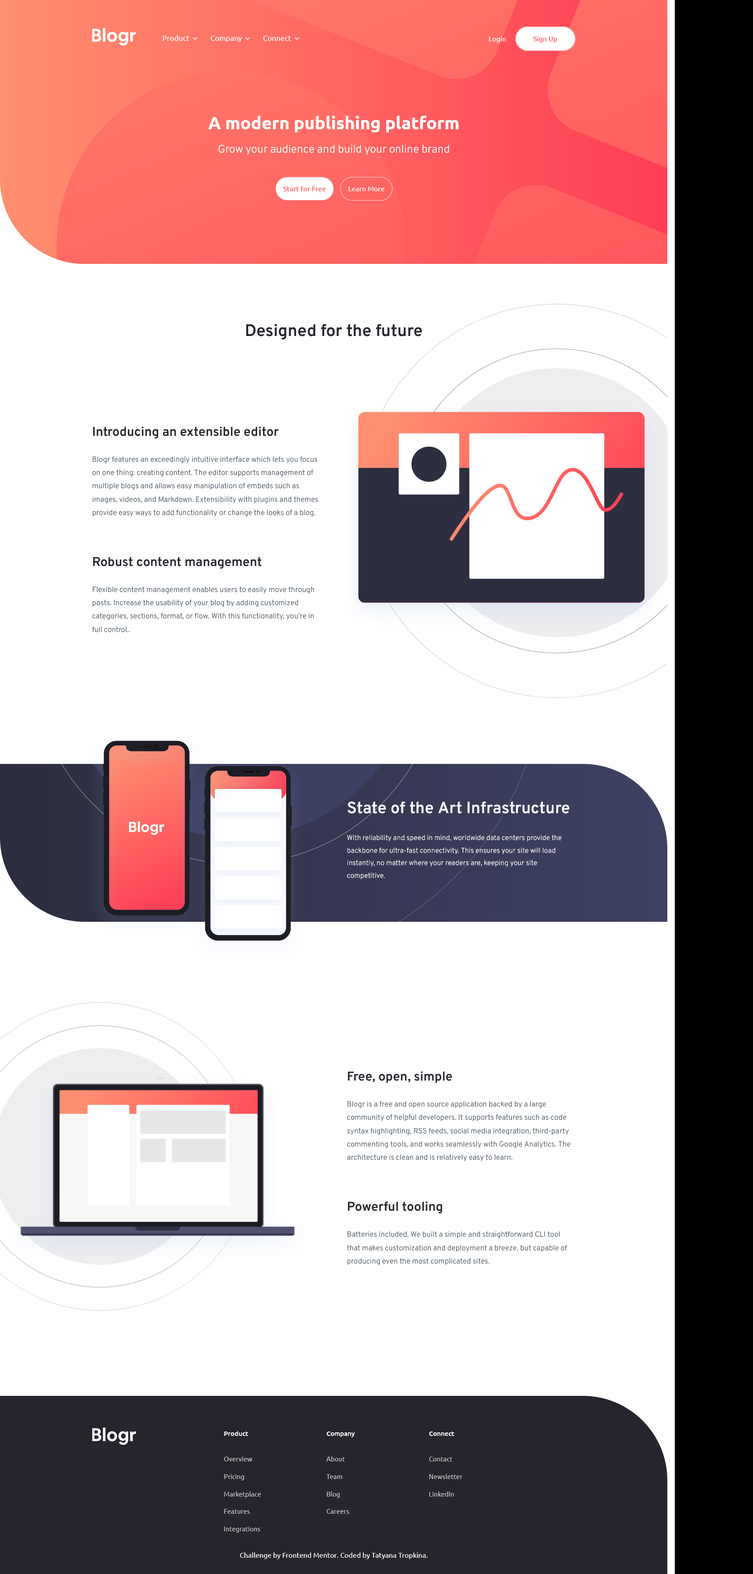
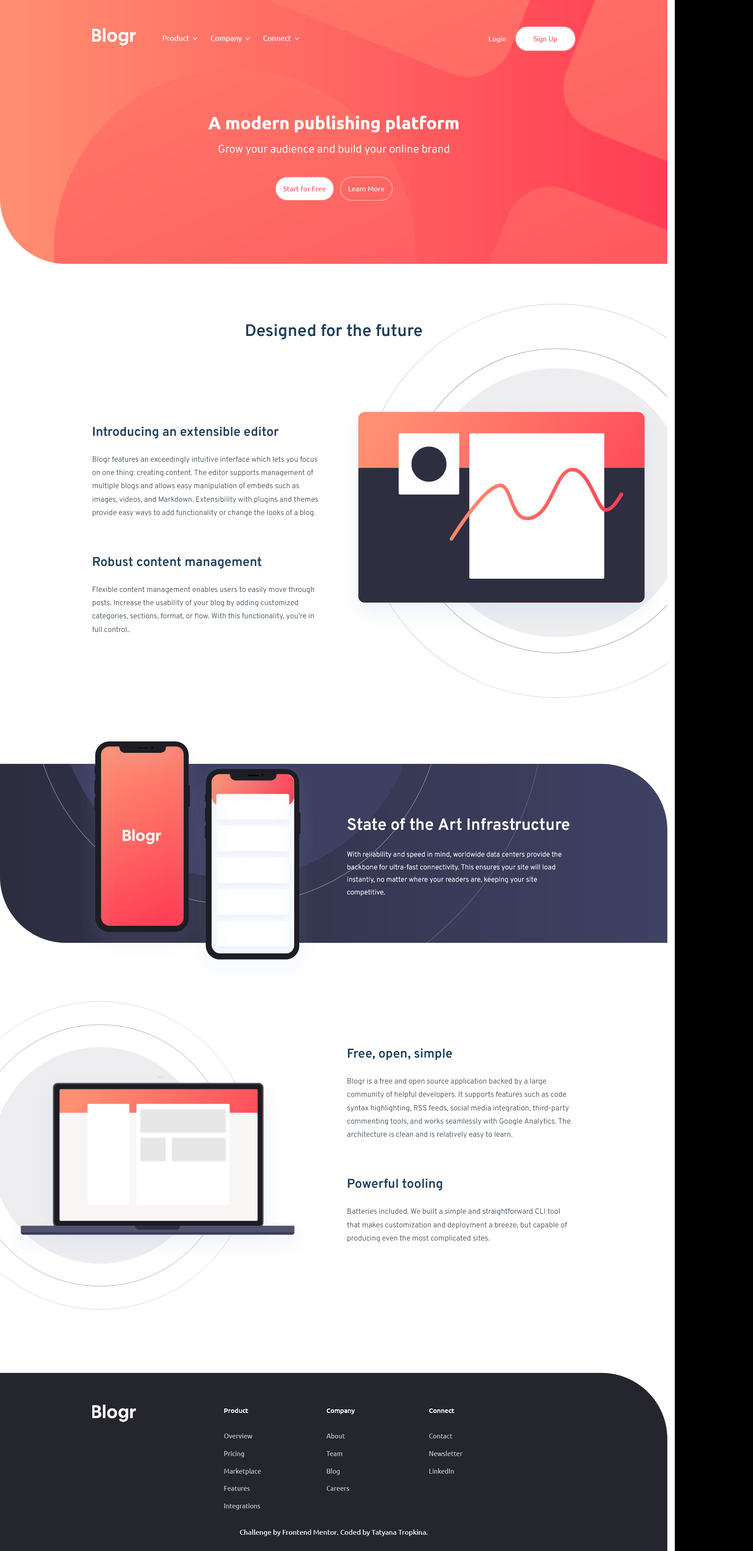
update header

diff --git a/css/style.min.css b/css/style.min.css
@@ -1,1 +1,1 @@
-.header__suptitle,.section__item-text,.structure__text{font-family:Overpass,sans-serif;font-weight:300}.section__item-title,.title{font-family:Overpass,sans-serif;font-weight:600}.footer-menu__list-link,.header-menu__list-item,body{font-family:Ubuntu,sans-serif;font-weight:400}.footer-menu__list-title{font-family:Ubuntu,sans-serif;font-weight:500}.header__title{font-family:Ubuntu,sans-serif;font-weight:700}::after,::before{position:absolute;content:""}.header__wrapper,.header__wrapper::before{top:0;right:0;bottom:0;left:0}/*! normalize.css v8.0.1 | MIT License | github.com/necolas/normalize.css */html{line-height:1.15;-webkit-text-size-adjust:100%}body{margin:0}main{display:block}h1{font-size:2em;margin:.67em 0}hr{-webkit-box-sizing:content-box;box-sizing:content-box;height:0;overflow:visible}pre{font-family:monospace,monospace;font-size:1em}a{background-color:transparent}abbr[title]{border-bottom:none;text-decoration:underline;-webkit-text-decoration:underline dotted;text-decoration:underline dotted}b,strong{font-weight:bolder}code,kbd,samp{font-family:monospace,monospace;font-size:1em}small{font-size:80%}sub,sup{font-size:75%;line-height:0;position:relative;vertical-align:baseline}sub{bottom:-.25em}sup{top:-.5em}img{border-style:none}button,input,optgroup,select,textarea{font-family:inherit;font-size:100%;line-height:1.15;margin:0}button,input{overflow:visible}button,select{text-transform:none}[type=button],[type=reset],[type=submit],button{-webkit-appearance:button}[type=button]::-moz-focus-inner,[type=reset]::-moz-focus-inner,[type=submit]::-moz-focus-inner,button::-moz-focus-inner{border-style:none;padding:0}[type=button]:-moz-focusring,[type=reset]:-moz-focusring,[type=submit]:-moz-focusring,button:-moz-focusring{outline:1px dotted ButtonText}fieldset{padding:.35em .75em .625em}legend{-webkit-box-sizing:border-box;box-sizing:border-box;color:inherit;display:table;max-width:100%;padding:0;white-space:normal}progress{vertical-align:baseline}textarea{overflow:auto}[type=checkbox],[type=radio]{-webkit-box-sizing:border-box;box-sizing:border-box;padding:0}[type=number]::-webkit-inner-spin-button,[type=number]::-webkit-outer-spin-button{height:auto}[type=search]{-webkit-appearance:textfield;outline-offset:-2px}[type=search]::-webkit-search-decoration{-webkit-appearance:none}::-webkit-file-upload-button{-webkit-appearance:button;font:inherit}details{display:block}summary{display:list-item}template{display:none}[hidden]{display:none}html{-webkit-box-sizing:border-box;box-sizing:border-box;scroll-behavior:smooth;overflow-x:hidden}*{-webkit-box-sizing:border-box;box-sizing:border-box}body{overflow-X:hidden;color:#4b5862;font-size:16px;line-height:174%;min-width:320px}li,ul{list-style:none;padding:0;margin:0}a{text-decoration:none;display:inline-block;-webkit-transition:all .2s;-o-transition:all .2s;transition:all .2s}p{padding:0;margin:0}figure{margin:0}h1,h2,h3,h4,h5,h6{padding:0;margin:0}button{background-color:transparent;border:none;cursor:pointer;padding:0;margin:0;outline:0}button:active,button:focus{outline:0}.container{max-width:1140px;padding:0 20px;margin:0 auto}.container-fluid{max-width:1400px;position:relative;margin:0 auto}.btn{display:inline-block;cursor:pointer;-webkit-transition:all .2s;-o-transition:all .2s;transition:all .2s;border-radius:50px;line-height:24px;border:1px solid transparent;transition:all .2s}.btn--fill{background-color:#fff;color:#ff525d;border-color:#ff525d}.btn--fill:active,.btn--fill:focus,.btn--fill:hover{background-color:#ff7a85;color:#fff;border-color:#ff7a85}.btn--transparent{background-color:transparent;color:#fff;border-color:#fff}.btn--transparent:active,.btn--transparent:focus,.btn--transparent:hover{background-color:#fff;color:#ff7a85;border-color:#ff525d}.logo__img{width:100px;height:40px;-o-object-fit:cover;object-fit:cover}.menu__list-title{color:#fff}.menu__list-item+.menu__list-item{margin-top:10px}.menu__list-link{color:#fff}.menu__dropdown{position:relative;padding:0 0 30px 0;margin:0 0 -30px 0}.menu__dropdown-title{position:relative;padding:0 18px 2px 0;color:#fff;cursor:pointer}.menu__dropdown-title::after{background:url(../images/icon-arrow-light.svg) center/cover no-repeat;right:0;top:50%;-webkit-transform:translateY(-50%);-ms-transform:translateY(-50%);transform:translateY(-50%);width:10px;height:8px;-webkit-transition:all .4s;-o-transition:all .4s;transition:all .4s}.menu__dropdown-title::before{background-color:#fff;height:1px;width:0;bottom:0;left:0;right:0;-webkit-transition:all .2s;-o-transition:all .2s;transition:all .2s}.menu__dropdown.closed .menu__dropdown-list{display:none}.menu__dropdown-title.open::after{-webkit-transform:translateY(-50%) rotateX(180deg);transform:translateY(-50%) rotateX(180deg)}.menu__dropdown-title.open::before{width:100%}.menu__dropdown-list{position:absolute;top:50px;left:0;padding:30px 25px;border-radius:8px;background-color:#fff;-webkit-box-shadow:-1px 13px 43px 2px rgba(0,0,0,.14);box-shadow:-1px 13px 43px 2px rgba(0,0,0,.14)}.menu__dropdown-link{color:#25252d}.menu__dropdown-link:hover{font-weight:500}._light{color:#fff}._dark{color:#25252d}.title{font-size:38px;line-height:130%}.section__items{width:50%;max-width:520px;padding:190px 0 180px}.section__item{margin-bottom:84px}.section__item:last-child{margin-bottom:0}.section__item-title{color:#25252d;font-size:29px;margin-bottom:33px}.section__item-text{font-size:17px;line-height:178%;color:#4b5862}:root{--border-radius:192px}.header{height:100vh;max-height:600px;border-bottom-left-radius:var(--border-radius);position:relative;margin-bottom:50px}.header__wrapper{position:absolute;overflow:hidden;border-bottom-left-radius:var(--border-radius);z-index:-4}.header__wrapper::after{top:-1300px;left:0;bottom:-1300px;right:-737px;background:url(../images/bg-pattern-intro.svg) center/cover no-repeat;z-index:-1;-webkit-transition:all 2s;-o-transition:all 2s;transition:all 2s;-webkit-transform:scale(2.2);-ms-transform:scale(2.2);transform:scale(2.2);opacity:0}.header__wrapper::before{background:-webkit-gradient(linear,left top,right top,from(#ff8f70),to(#ff3d54));background:-o-linear-gradient(left,#ff8f70 0,#ff3d54 100%);background:linear-gradient(90deg,#ff8f70 0,#ff3d54 100%);width:100%;z-index:-5}.header__top{display:-webkit-box;display:-ms-flexbox;display:flex;-webkit-box-align:center;-ms-flex-align:center;align-items:center;-webkit-box-pack:justify;-ms-flex-pack:justify;justify-content:space-between;padding-top:60px}.header__actions{display:-webkit-box;display:-ms-flexbox;display:flex}.header__actions-btn{padding:15px 40px}.header__actions-btn--login{color:#fff;padding:0}.header__actions-btn--login:active,.header__actions-btn--login:focus,.header__actions-btn--login:hover{color:#25252d}.header__actions-btn--signup{margin-left:20px}.header__content{max-width:800px;text-align:center;padding:135px 0 150px;margin:0 auto}.header__title{font-size:40px;padding-bottom:20px;line-height:140%}.header__suptitle{font-size:25px;margin-bottom:48px}.header__links{display:-webkit-box;display:-ms-flexbox;display:flex;-webkit-box-pack:center;-ms-flex-pack:center;justify-content:center}.header__link{padding:14px 17px}.header__link+.header__link{margin-left:15px}.header.anim .header__wrapper::after{opacity:1;-webkit-transform:scale(1);-ms-transform:scale(1);transform:scale(1)}.header.anim .header__title{-webkit-transform:translateY(-100px) translateX(0);-ms-transform:translateY(-100px) translateX(0);transform:translateY(-100px) translateX(0);opacity:0;-webkit-transition:1.5s;-o-transition:1.5s;transition:1.5s;-webkit-transition-delay:0;-o-transition-delay:0;transition-delay:0}.header.anim .header__title.anim{-webkit-transform:translateY(0) translateX(0);-ms-transform:translateY(0) translateX(0);transform:translateY(0) translateX(0);opacity:1}.header.anim .header__suptitle{-webkit-transform:translateY(-50px) translateX(0);-ms-transform:translateY(-50px) translateX(0);transform:translateY(-50px) translateX(0);opacity:0;-webkit-transition:1.5s;-o-transition:1.5s;transition:1.5s;-webkit-transition-delay:1s;-o-transition-delay:1s;transition-delay:1s}.header.anim .header__suptitle.anim{-webkit-transform:translateY(0) translateX(0);-ms-transform:translateY(0) translateX(0);transform:translateY(0) translateX(0);opacity:1}.header.anim .header__links{-webkit-transform:translateY(40px) translateX(0);-ms-transform:translateY(40px) translateX(0);transform:translateY(40px) translateX(0);opacity:0;-webkit-transition:2s;-o-transition:2s;transition:2s;-webkit-transition-delay:1.2s;-o-transition-delay:1.2s;transition-delay:1.2s}.header.anim .header__links.anim{-webkit-transform:translateY(0) translateX(0);-ms-transform:translateY(0) translateX(0);transform:translateY(0) translateX(0);opacity:1}.header-menu{margin:0 auto 0 60px}.header-menu__list{display:-webkit-box;display:-ms-flexbox;display:flex}.header-menu__list-item{font-size:17px}.header-menu__list-item+.header-menu__list-item{margin-left:30px}.design{padding-top:80px;margin-bottom:60px;position:relative}.design::after{width:calc(49% + 195px);right:-195px;top:0;bottom:0;max-width:952px;background:url(../images/illustration-editor-desktop.svg) center/contain no-repeat}.design__title{text-align:center}.design__img{display:none}.structure{margin:110px 0 60px;position:relative}.structure__intro-wrapper{background:-webkit-gradient(linear,left top,right top,from(#2c2d3f),to(#3f4164));background:-o-linear-gradient(left,#2c2d3f 0,#3f4164 100%);background:linear-gradient(90deg,#2c2d3f 0,#3f4164 100%);border-bottom-left-radius:var(--border-radius);border-top-right-radius:var(--border-radius)}.structure__intro-bg{border-bottom-left-radius:var(--border-radius);border-top-right-radius:var(--border-radius);background:url(../images/bg-pattern-circles.svg) -220px 90%/cover no-repeat}.structure__intro{position:relative;margin-bottom:50px}.structure__intro::after{background:url(../images/illustration-phones.svg) center/contain no-repeat;top:-71px;bottom:-98px;left:-35px;width:50%;max-width:552px}.structure__intro-content{padding:80px 0 90px;margin-left:auto}.structure__items{margin-left:auto}.structure__title{font-size:37px;line-height:120%;margin-bottom:30px}.structure__text{line-height:178%}.structure__content-bg{position:relative;padding:100px 0 50px}.structure__content-bg::after{background:url(../images/illustration-laptop-desktop.svg) center/contain no-repeat;width:calc(49% + 182px);left:-182px;top:0;bottom:0}.structure__content-img{display:none}.footer{background-color:#25252d;border-top-right-radius:var(--border-radius);padding:72px 0 30px}.footer__inner{display:grid;grid-template-columns:100px 1fr;grid-gap:50px;-webkit-box-pack:justify;-ms-flex-pack:justify;justify-content:space-between;margin-bottom:30px}.footer-menu{display:grid;grid-template-columns:repeat(3,1fr);grid-gap:50px;width:100%;max-width:650px;margin:0 auto}.footer-menu__list-title{margin-bottom:30px;font-size:15px}.footer-menu__list-link{padding-bottom:1px;position:relative;font-size:15px;color:#c8c8cb}.footer-menu__list-link::before{background-color:#c8c8cb;height:1px;width:0;bottom:0;left:0;-webkit-transition:all .2s;-o-transition:all .2s;transition:all .2s}.footer-menu__list-link:active::before,.footer-menu__list-link:focus::before,.footer-menu__list-link:hover::before{right:0;width:100%}.attribution{color:#fff;text-align:center}.attribution a{color:#fff}.attribution a:active,.attribution a:focus,.attribution a:hover{opacity:.7}@media (max-width:768px){.header-menu{display:block;margin:0}.header-menu__list{-webkit-box-orient:vertical;-webkit-box-direction:normal;-ms-flex-direction:column;flex-direction:column;-webkit-box-align:center;-ms-flex-align:center;align-items:center;position:absolute;z-index:10;right:20px;top:100px;background-color:#fff;-webkit-transform:translateX(700%);-ms-transform:translateX(700%);transform:translateX(700%);-webkit-transition:all .5s linear;-o-transition:all .5s linear;transition:all .5s linear;-webkit-box-shadow:-1px 13px 43px 2px rgba(0,0,0,.3);box-shadow:-1px 13px 43px 2px rgba(0,0,0,.3);padding:30px;max-width:280px;max-height:calc(var(--height-menu) - 150px);width:100%;border-radius:5px;overflow-y:scroll}.header-menu__list.open{-webkit-transform:translateX(0);-ms-transform:translateX(0);transform:translateX(0)}.header-menu__list-item+.header-menu__list-item{margin:30px 0 0 0}.header-menu__btn{width:32px;height:26px;position:relative;cursor:pointer;-webkit-transition:all .2s;-o-transition:all .2s;transition:all .2s;overflow:hidden}.header-menu__btn::after,.header-menu__btn::before{bottom:0;right:0;left:0;-webkit-transition:all .2s cubic-bezier(.075,.82,.165,1);-o-transition:all .2s cubic-bezier(.075,.82,.165,1);transition:all .2s cubic-bezier(.075,.82,.165,1);background-repeat:no-repeat}.header-menu__btn::after{top:4px;background-image:url(../images/icon-hamburger.svg)}.header-menu__btn::before{top:0;background-image:url(../images/icon-close.svg);opacity:0}.header-menu__btn.open{width:26px}.header-menu__btn.open::after{opacity:0}.header-menu__btn.open::before{opacity:1}.header__top{padding-top:30px}.header__actions{-webkit-box-orient:vertical;-webkit-box-direction:normal;-ms-flex-direction:column;flex-direction:column;width:100%;-webkit-box-align:center;-ms-flex-align:center;align-items:center;padding-top:20px;margin-top:30px;position:relative}.header__actions::after{height:1px;background-color:#c8c8cb;width:100%;top:0;left:0;right:0}.header__actions-btn{padding:13px 40px}.header__actions-btn--login{color:#25252d;margin-bottom:20px;padding:0}.header__actions-btn--login:active,.header__actions-btn--login:focus,.header__actions-btn--login:hover{color:#ff525d}.header__actions-btn--signup{background:-webkit-gradient(linear,left top,right top,from(#ff8f70),to(#ff3d54));background:-o-linear-gradient(left,#ff8f70 0,#ff3d54 100%);background:linear-gradient(90deg,#ff8f70 0,#ff3d54 100%);margin-left:0;color:#fff;border:none}.header__actions-btn--signup:active,.header__actions-btn--signup:focus,.header__actions-btn--signup:hover{background:-webkit-gradient(linear,left top,right top,from(#ff8f70),color-stop(0,#ff3d54));background:-o-linear-gradient(left,#ff8f70 0,#ff3d54 0);background:linear-gradient(90deg,#ff8f70 0,#ff3d54 0)}.menu__dropdown{display:-webkit-box;display:-ms-flexbox;display:flex;-webkit-box-orient:vertical;-webkit-box-direction:normal;-ms-flex-direction:column;flex-direction:column;-webkit-box-align:center;-ms-flex-align:center;align-items:center;width:100%;padding:0;margin:0}.menu__dropdown-list{position:static;-webkit-box-shadow:none;box-shadow:none;border-radius:0;width:100%;text-align:center;background-color:#efeff1;border-radius:5px;padding:20px 20px;margin-top:20px}.menu__dropdown-item{margin-bottom:15px}.menu__dropdown-item:last-child{margin-bottom:0}.menu__dropdown-link{color:#4b5862}.menu__dropdown-link:hover{font-weight:500}.menu__dropdown-title{padding:0 18px 0 0;color:#25252d}.menu__dropdown-title::after{background-image:url(../images/icon-arrow-dark.svg)}.menu__dropdown-title::before{display:none}.menu__dropdown-title.open{color:#4b5862}.design::after{display:none}.design__img{display:block;max-width:406px;width:100%;-o-object-fit:cover;object-fit:cover;margin:0 auto 30px}.design__title{margin-bottom:40px}.section{padding-top:40px}.section__item{margin-bottom:40px}.section__item-title{color:#3f4164;font-size:29px;margin-bottom:20px}.section__items{max-width:none;width:100%;text-align:center;padding:50px 0 60px}.structure{margin:300px 0 120px}.structure__intro-bg{background:url(../images/bg-pattern-circles.svg) 0 90%/cover no-repeat}.structure__intro::after{background:url(../images/illustration-phones.svg) center/contain no-repeat;top:-450px;bottom:0;left:50%;width:100%;max-width:452px;-webkit-transform:translateX(-50%);-ms-transform:translateX(-50%);transform:translateX(-50%)}.structure__intro-content{padding:250px 0 90px}.structure__content-img{display:block;max-width:498px;width:100%;-o-object-fit:cover;object-fit:cover;margin:0 auto 30px}.structure__content-bg{padding:100px 0 0}.structure__content-bg::after{display:none}.footer__inner{display:block}.footer-menu{grid-gap:35px;margin-top:30px;max-width:none}:root{--border-radius:120px}}@media (max-width:500px){.header{margin-bottom:30px}.header__title{font-size:35px;font-weight:500}.header__suptitle{font-size:20px;margin-bottom:40px}.header__content{padding:88px 0 91px}.header-menu__list{top:90px}.structure{margin:200px 0 120px}.footer{text-align:center}.footer-menu{grid-template-columns:1fr}}@supports (-webkit-appearance:none){.menu__dropdown-title::after{background:url(../images/icon-arrow-light.svg) center/cover no-repeat}.header__wrapper::after{background:url(../images/bg-pattern-intro.svg) center/cover no-repeat}.design::after{background:url(../images/illustration-editor-desktop.svg) center/contain no-repeat}.structure__intro-bg{background:url(../images/bg-pattern-circles.svg) -220px 90%/cover no-repeat}.structure__intro::after{background:url(../images/illustration-phones.svg) center/contain no-repeat}.structure__content-bg::after{background:url(../images/illustration-laptop-desktop.svg) center/contain no-repeat}}@media (max-width:768px){@supports (-webkit-appearance:none){.header-menu__btn::after{background-image:url(../images/icon-hamburger.svg)}.header-menu__btn::before{background-image:url(../images/icon-close.svg)}.menu__dropdown-title::after{background-image:url(../images/icon-arrow-dark.svg)}.structure__intro-bg{background:url(../images/bg-pattern-circles.svg) 0 90%/cover no-repeat}.structure__intro::after{background:url(../images/illustration-phones.svg) center/contain no-repeat}}}
+.header__suptitle,.section__item-text,.structure__text{font-family:Overpass,sans-serif;font-weight:300}.section__item-title,.title{font-family:Overpass,sans-serif;font-weight:600}.footer-menu__list-link,.header-menu__list-item,body{font-family:Ubuntu,sans-serif;font-weight:400}.footer-menu__list-title{font-family:Ubuntu,sans-serif;font-weight:500}.header__title{font-family:Ubuntu,sans-serif;font-weight:700}::after,::before{position:absolute;content:""}.header__wrapper,.header__wrapper::before{top:0;right:0;bottom:0;left:0}/*! normalize.css v8.0.1 | MIT License | github.com/necolas/normalize.css */html{line-height:1.15;-webkit-text-size-adjust:100%}body{margin:0}main{display:block}h1{font-size:2em;margin:.67em 0}hr{-webkit-box-sizing:content-box;box-sizing:content-box;height:0;overflow:visible}pre{font-family:monospace,monospace;font-size:1em}a{background-color:transparent}abbr[title]{border-bottom:none;text-decoration:underline;-webkit-text-decoration:underline dotted;text-decoration:underline dotted}b,strong{font-weight:bolder}code,kbd,samp{font-family:monospace,monospace;font-size:1em}small{font-size:80%}sub,sup{font-size:75%;line-height:0;position:relative;vertical-align:baseline}sub{bottom:-.25em}sup{top:-.5em}img{border-style:none}button,input,optgroup,select,textarea{font-family:inherit;font-size:100%;line-height:1.15;margin:0}button,input{overflow:visible}button,select{text-transform:none}[type=button],[type=reset],[type=submit],button{-webkit-appearance:button}[type=button]::-moz-focus-inner,[type=reset]::-moz-focus-inner,[type=submit]::-moz-focus-inner,button::-moz-focus-inner{border-style:none;padding:0}[type=button]:-moz-focusring,[type=reset]:-moz-focusring,[type=submit]:-moz-focusring,button:-moz-focusring{outline:1px dotted ButtonText}fieldset{padding:.35em .75em .625em}legend{-webkit-box-sizing:border-box;box-sizing:border-box;color:inherit;display:table;max-width:100%;padding:0;white-space:normal}progress{vertical-align:baseline}textarea{overflow:auto}[type=checkbox],[type=radio]{-webkit-box-sizing:border-box;box-sizing:border-box;padding:0}[type=number]::-webkit-inner-spin-button,[type=number]::-webkit-outer-spin-button{height:auto}[type=search]{-webkit-appearance:textfield;outline-offset:-2px}[type=search]::-webkit-search-decoration{-webkit-appearance:none}::-webkit-file-upload-button{-webkit-appearance:button;font:inherit}details{display:block}summary{display:list-item}template{display:none}[hidden]{display:none}html{-webkit-box-sizing:border-box;box-sizing:border-box;scroll-behavior:smooth;overflow-x:hidden}*{-webkit-box-sizing:border-box;box-sizing:border-box}body{overflow-X:hidden;color:#4b5862;font-size:16px;line-height:174%;min-width:320px}li,ul{list-style:none;padding:0;margin:0}a{text-decoration:none;display:inline-block;-webkit-transition:all .2s;-o-transition:all .2s;transition:all .2s}p{padding:0;margin:0}figure{margin:0}h1,h2,h3,h4,h5,h6{padding:0;margin:0}button{background-color:transparent;border:none;cursor:pointer;padding:0;margin:0;outline:0}button:active,button:focus{outline:0}.container{max-width:1140px;padding:0 20px;margin:0 auto}.container-fluid{max-width:1400px;position:relative;margin:0 auto}.btn{display:inline-block;cursor:pointer;-webkit-transition:all .2s;-o-transition:all .2s;transition:all .2s;border-radius:50px;line-height:24px;border:1px solid transparent;transition:all .2s}.btn--fill{background-color:#fff;color:#ff525d;border-color:#ff525d}.btn--fill:active,.btn--fill:focus,.btn--fill:hover{background-color:#ff7a85;color:#fff;border-color:#ff7a85}.btn--transparent{background-color:transparent;color:#fff;border-color:#fff}.btn--transparent:active,.btn--transparent:focus,.btn--transparent:hover{background-color:#fff;color:#ff7a85;border-color:#ff525d}.logo__img{width:100px;height:40px;-o-object-fit:cover;object-fit:cover}.menu__list-title{color:#fff}.menu__list-item+.menu__list-item{margin-top:10px}.menu__list-link{color:#fff}.menu__dropdown{position:relative;padding:0 0 30px 0;margin:0 0 -30px 0}.menu__dropdown-title{position:relative;padding:0 18px 2px 0;color:#fff;cursor:pointer}.menu__dropdown-title::after{background:url(../images/icon-arrow-light.svg) center/cover no-repeat;right:0;top:50%;-webkit-transform:translateY(-50%);-ms-transform:translateY(-50%);transform:translateY(-50%);width:10px;height:8px;-webkit-transition:all .4s;-o-transition:all .4s;transition:all .4s}.menu__dropdown-title::before{background-color:#fff;height:1px;width:0;bottom:0;left:0;right:0;-webkit-transition:all .2s;-o-transition:all .2s;transition:all .2s}.menu__dropdown.closed .menu__dropdown-list{display:none}.menu__dropdown-title.open::after{-webkit-transform:translateY(-50%) rotateX(180deg);transform:translateY(-50%) rotateX(180deg)}.menu__dropdown-title.open::before{width:100%}.menu__dropdown-list{position:absolute;top:50px;left:0;padding:30px 25px;border-radius:8px;background-color:#fff;-webkit-box-shadow:-1px 13px 43px 2px rgba(0,0,0,.14);box-shadow:-1px 13px 43px 2px rgba(0,0,0,.14)}.menu__dropdown-link{color:#25252d}.menu__dropdown-link:hover{font-weight:500}._light{color:#fff}._dark{color:#25252d}.title{font-size:38px;line-height:130%}.section__items{width:50%;max-width:520px;padding:190px 0 180px}.section__item{margin-bottom:84px}.section__item:last-child{margin-bottom:0}.section__item-title{color:#1f3f5b;font-size:29px;margin-bottom:33px}.section__item-text{font-size:17px;line-height:178%;color:#4b5862}:root{--border-radius:150px}.header{height:100vh;max-height:600px;border-bottom-left-radius:var(--border-radius);position:relative;margin-bottom:50px}.header__wrapper{position:absolute;overflow:hidden;border-bottom-left-radius:var(--border-radius);z-index:-4}.header__wrapper::after{top:-400px;bottom:-400px;left:-500px;right:-1300px;background:url(../images/bg-pattern-intro.svg) center/cover no-repeat;z-index:-1;-webkit-transition:all 2s;-o-transition:all 2s;transition:all 2s;-webkit-transform:scale(2.2);-ms-transform:scale(2.2);transform:scale(2.2);opacity:0}.header__wrapper::before{background:-webkit-gradient(linear,left top,right top,from(#ff8f70),to(#ff3d54));background:-o-linear-gradient(left,#ff8f70 0,#ff3d54 100%);background:linear-gradient(90deg,#ff8f70 0,#ff3d54 100%);width:100%;z-index:-5}.header__top{display:-webkit-box;display:-ms-flexbox;display:flex;-webkit-box-align:center;-ms-flex-align:center;align-items:center;-webkit-box-pack:justify;-ms-flex-pack:justify;justify-content:space-between;padding-top:60px}.header__actions{display:-webkit-box;display:-ms-flexbox;display:flex}.header__actions-btn{padding:15px 40px}.header__actions-btn--login{color:#fff;padding:0}.header__actions-btn--login:active,.header__actions-btn--login:focus,.header__actions-btn--login:hover{color:#25252d}.header__actions-btn--signup{margin-left:20px}.header__content{max-width:800px;text-align:center;padding:135px 0 150px;margin:0 auto}.header__title{font-size:40px;padding-bottom:20px;line-height:140%}.header__suptitle{font-size:25px;margin-bottom:48px}.header__links{display:-webkit-box;display:-ms-flexbox;display:flex;-webkit-box-pack:center;-ms-flex-pack:center;justify-content:center}.header__link{padding:14px 17px}.header__link+.header__link{margin-left:15px}.header.anim .header__wrapper::after{opacity:1;-webkit-transform:scale(1);-ms-transform:scale(1);transform:scale(1)}.header.anim .header__title{-webkit-transform:translateY(-100px) translateX(0);-ms-transform:translateY(-100px) translateX(0);transform:translateY(-100px) translateX(0);opacity:0;-webkit-transition:1.5s;-o-transition:1.5s;transition:1.5s;-webkit-transition-delay:0;-o-transition-delay:0;transition-delay:0}.header.anim .header__title.anim{-webkit-transform:translateY(0) translateX(0);-ms-transform:translateY(0) translateX(0);transform:translateY(0) translateX(0);opacity:1}.header.anim .header__suptitle{-webkit-transform:translateY(-50px) translateX(0);-ms-transform:translateY(-50px) translateX(0);transform:translateY(-50px) translateX(0);opacity:0;-webkit-transition:1.5s;-o-transition:1.5s;transition:1.5s;-webkit-transition-delay:1s;-o-transition-delay:1s;transition-delay:1s}.header.anim .header__suptitle.anim{-webkit-transform:translateY(0) translateX(0);-ms-transform:translateY(0) translateX(0);transform:translateY(0) translateX(0);opacity:1}.header.anim .header__links{-webkit-transform:translateY(40px) translateX(0);-ms-transform:translateY(40px) translateX(0);transform:translateY(40px) translateX(0);opacity:0;-webkit-transition:2s;-o-transition:2s;transition:2s;-webkit-transition-delay:1.2s;-o-transition-delay:1.2s;transition-delay:1.2s}.header.anim .header__links.anim{-webkit-transform:translateY(0) translateX(0);-ms-transform:translateY(0) translateX(0);transform:translateY(0) translateX(0);opacity:1}.header-menu{margin:0 auto 0 60px}.header-menu__list{display:-webkit-box;display:-ms-flexbox;display:flex}.header-menu__list-item{font-size:17px}.header-menu__list-item+.header-menu__list-item{margin-left:30px}.design{padding-top:80px;margin-bottom:60px;position:relative}.design::after{width:calc(49% + 195px);right:-195px;top:0;bottom:0;max-width:952px;background:url(../images/illustration-editor-desktop.svg) center/contain no-repeat}.design__title{text-align:center;color:#1f3f5b}.design__img{display:none}.structure{margin:110px 0 60px;position:relative}.structure__intro-wrapper{background:-webkit-gradient(linear,left top,right top,from(#2c2d3f),to(#3f4164));background:-o-linear-gradient(left,#2c2d3f 0,#3f4164 100%);background:linear-gradient(90deg,#2c2d3f 0,#3f4164 100%);border-bottom-left-radius:var(--border-radius);border-top-right-radius:var(--border-radius)}.structure__intro-bg{border-bottom-left-radius:var(--border-radius);border-top-right-radius:var(--border-radius);background:url(../images/bg-pattern-circles.svg) -220px 85%/cover no-repeat}.structure__intro{position:relative;margin-bottom:50px}.structure__intro::after{background:url(../images/illustration-phones.svg) center/contain no-repeat;top:-71px;bottom:-98px;left:-35px;width:50%;max-width:552px}.structure__intro-content{padding:118px 0 100px;margin-left:auto}.structure__items{margin-left:auto}.structure__title{font-size:37px;line-height:120%;margin-bottom:30px}.structure__text{line-height:178%}.structure__content-bg{position:relative;padding:0 0 50px}.structure__content-bg::after{background:url(../images/illustration-laptop-desktop.svg) center/contain no-repeat;width:calc(49% + 182px);left:-182px;top:0;bottom:0}.structure__content-img{display:none}.footer{background-color:#25252d;border-top-right-radius:var(--border-radius);padding:72px 0 30px}.footer__inner{display:grid;grid-template-columns:100px 1fr;grid-gap:50px;-webkit-box-pack:justify;-ms-flex-pack:justify;justify-content:space-between;margin-bottom:30px}.footer-menu{display:grid;grid-template-columns:repeat(3,1fr);grid-gap:50px;width:100%;max-width:650px;margin:0 auto}.footer-menu__list-title{margin-bottom:30px;font-size:15px}.footer-menu__list-link{padding-bottom:1px;position:relative;font-size:15px;color:#c8c8cb}.footer-menu__list-link::before{background-color:#c8c8cb;height:1px;width:0;bottom:0;left:0;-webkit-transition:all .2s;-o-transition:all .2s;transition:all .2s}.footer-menu__list-link:active::before,.footer-menu__list-link:focus::before,.footer-menu__list-link:hover::before{right:0;width:100%}.attribution{color:#fff;text-align:center}.attribution a{color:#fff}.attribution a:active,.attribution a:focus,.attribution a:hover{opacity:.7}@media (max-width:768px){.header-menu{display:block;margin:0}.header-menu__list{-webkit-box-orient:vertical;-webkit-box-direction:normal;-ms-flex-direction:column;flex-direction:column;-webkit-box-align:center;-ms-flex-align:center;align-items:center;position:absolute;z-index:10;right:20px;top:100px;background-color:#fff;-webkit-transform:translateX(700%);-ms-transform:translateX(700%);transform:translateX(700%);-webkit-transition:all .5s linear;-o-transition:all .5s linear;transition:all .5s linear;-webkit-box-shadow:-1px 13px 43px 2px rgba(0,0,0,.3);box-shadow:-1px 13px 43px 2px rgba(0,0,0,.3);padding:30px;max-width:280px;max-height:calc(var(--height-menu) - 150px);width:100%;border-radius:5px;overflow-y:scroll}.header-menu__list.open{-webkit-transform:translateX(0);-ms-transform:translateX(0);transform:translateX(0)}.header-menu__list-item+.header-menu__list-item{margin:30px 0 0 0}.header-menu__btn{width:32px;height:26px;position:relative;cursor:pointer;-webkit-transition:all .2s;-o-transition:all .2s;transition:all .2s;overflow:hidden}.header-menu__btn::after,.header-menu__btn::before{bottom:0;right:0;left:0;-webkit-transition:all .2s cubic-bezier(.075,.82,.165,1);-o-transition:all .2s cubic-bezier(.075,.82,.165,1);transition:all .2s cubic-bezier(.075,.82,.165,1);background-repeat:no-repeat}.header-menu__btn::after{top:4px;background-image:url(../images/icon-hamburger.svg)}.header-menu__btn::before{top:0;background-image:url(../images/icon-close.svg);opacity:0}.header-menu__btn.open{width:26px}.header-menu__btn.open::after{opacity:0}.header-menu__btn.open::before{opacity:1}.header__top{padding-top:30px}.header__actions{-webkit-box-orient:vertical;-webkit-box-direction:normal;-ms-flex-direction:column;flex-direction:column;width:100%;-webkit-box-align:center;-ms-flex-align:center;align-items:center;padding-top:20px;margin-top:30px;position:relative}.header__actions::after{height:1px;background-color:#c8c8cb;width:100%;top:0;left:0;right:0}.header__actions-btn{padding:13px 40px}.header__actions-btn--login{color:#25252d;margin-bottom:20px;padding:0}.header__actions-btn--login:active,.header__actions-btn--login:focus,.header__actions-btn--login:hover{color:#ff525d}.header__actions-btn--signup{background:-webkit-gradient(linear,left top,right top,from(#ff8f70),to(#ff3d54));background:-o-linear-gradient(left,#ff8f70 0,#ff3d54 100%);background:linear-gradient(90deg,#ff8f70 0,#ff3d54 100%);margin-left:0;color:#fff;border:none}.header__actions-btn--signup:active,.header__actions-btn--signup:focus,.header__actions-btn--signup:hover{background:-webkit-gradient(linear,left top,right top,from(#ff8f70),color-stop(0,#ff3d54));background:-o-linear-gradient(left,#ff8f70 0,#ff3d54 0);background:linear-gradient(90deg,#ff8f70 0,#ff3d54 0)}.menu__dropdown{display:-webkit-box;display:-ms-flexbox;display:flex;-webkit-box-orient:vertical;-webkit-box-direction:normal;-ms-flex-direction:column;flex-direction:column;-webkit-box-align:center;-ms-flex-align:center;align-items:center;width:100%;padding:0;margin:0}.menu__dropdown-list{position:static;-webkit-box-shadow:none;box-shadow:none;border-radius:0;width:100%;text-align:center;background-color:#efeff1;border-radius:5px;padding:20px 20px;margin-top:20px}.menu__dropdown-item{margin-bottom:15px}.menu__dropdown-item:last-child{margin-bottom:0}.menu__dropdown-link{color:#4b5862}.menu__dropdown-link:hover{font-weight:500}.menu__dropdown-title{padding:0 18px 0 0;color:#25252d}.menu__dropdown-title::after{background-image:url(../images/icon-arrow-dark.svg)}.menu__dropdown-title::before{display:none}.menu__dropdown-title.open{color:#4b5862}.design::after{display:none}.design__img{display:block;max-width:406px;width:100%;-o-object-fit:cover;object-fit:cover;margin:0 auto 30px}.design__title{margin-bottom:40px}.section{padding-top:40px}.section__item{margin-bottom:40px}.section__item-title{color:#3f4164;font-size:29px;margin-bottom:20px}.section__items{max-width:none;width:100%;text-align:center;padding:50px 0 60px}.structure{margin:300px 0 120px}.structure__intro-bg{background:url(../images/bg-pattern-circles.svg) 0 90%/cover no-repeat}.structure__intro::after{background:url(../images/illustration-phones.svg) center/contain no-repeat;top:-450px;bottom:0;left:50%;width:100%;max-width:452px;-webkit-transform:translateX(-50%);-ms-transform:translateX(-50%);transform:translateX(-50%)}.structure__intro-content{padding:250px 0 90px}.structure__content-img{display:block;max-width:498px;width:100%;-o-object-fit:cover;object-fit:cover;margin:0 auto 30px}.structure__content-bg{padding:100px 0 0}.structure__content-bg::after{display:none}.footer__inner{display:block}.footer-menu{grid-gap:35px;margin-top:30px;max-width:none}:root{--border-radius:120px}}@media (max-width:500px){.header{margin-bottom:0}.header__title{font-size:35px;font-weight:500}.header__suptitle{font-size:20px;margin-bottom:40px}.header__content{padding:88px 0 91px}.header-menu__list{top:90px}.title{font-size:30px}.design{margin-bottom:0}.structure{margin:200px 0 0}.structure__intro{margin-bottom:0}.structure__content-bg{padding:50px 0 0}.footer{text-align:center}.footer-menu{grid-template-columns:1fr}}@supports (-webkit-appearance:none){.menu__dropdown-title::after{background:url(../images/icon-arrow-light.svg) center/cover no-repeat}.header__wrapper::after{background:url(../images/bg-pattern-intro.svg) center/cover no-repeat}.design::after{background:url(../images/illustration-editor-desktop.svg) center/contain no-repeat}.structure__intro-bg{background:url(../images/bg-pattern-circles.svg) -220px 85%/cover no-repeat}.structure__intro::after{background:url(../images/illustration-phones.svg) center/contain no-repeat}.structure__content-bg::after{background:url(../images/illustration-laptop-desktop.svg) center/contain no-repeat}}@media (max-width:768px){@supports (-webkit-appearance:none){.header-menu__btn::after{background-image:url(../images/icon-hamburger.svg)}.header-menu__btn::before{background-image:url(../images/icon-close.svg)}.menu__dropdown-title::after{background-image:url(../images/icon-arrow-dark.svg)}.structure__intro-bg{background:url(../images/bg-pattern-circles.svg) 0 90%/cover no-repeat}.structure__intro::after{background:url(../images/illustration-phones.svg) center/contain no-repeat}}}

diff --git a/app/scss/style.scss b/app/scss/style.scss
@@ -5,7 +5,8 @@
 @import "keyframes";
 
 :root {
-	--border-radius: 192px;
+	--border-radius: 150px;
+
 }
 
 .header {
@@ -23,11 +24,10 @@
 		z-index: -4;
 
 		&::after {
-
-			top: -1300px;
-			left: 0;
-			bottom: -1300px;
-			right: -737px;
+			top: -400px;
+			bottom: -400px;
+			left: -500px;
+			right: -1300px;
 			background: url(../images/bg-pattern-intro.svg)center / cover no-repeat;
 			z-index: -1;
 			transition: all 2s;
@@ -173,6 +173,7 @@
 
 	&__title {
 		text-align: center;
+		color: $very-dark-blue;
 
 	}
 
@@ -196,7 +197,7 @@
 	&__intro-bg {
 		border-bottom-left-radius: var(--border-radius);
 		border-top-right-radius: var(--border-radius);
-		background: url(../images/bg-pattern-circles.svg) -220px 90% / cover no-repeat;
+		background: url(../images/bg-pattern-circles.svg) -220px 85% / cover no-repeat;
 	}
 
 	&__intro {
@@ -215,7 +216,7 @@
 	}
 
 	&__intro-content {
-		padding: 80px 0 90px;
+		padding: 118px 0 100px;
 		margin-left: auto;
 	}
 
@@ -237,7 +238,7 @@
 
 	&__content-bg {
 		position: relative;
-		padding: 100px 0 50px;
+		padding: 0 0 50px;
 
 		&::after {
 			background: url(../images/illustration-laptop-desktop.svg) center / contain no-repeat;

diff --git a/app/scss/_media.scss b/app/scss/_media.scss
@@ -298,7 +298,7 @@
 @media (max-width: 500px) {
 	.header {
 
-		margin-bottom: 30px;
+		margin-bottom: 0;
 
 		&__title {
 			font-size: 35px;
@@ -321,8 +321,24 @@
 		top: 90px;
 	}
 
+	.title {
+		font-size: 30px;
+	}
+
+	.design {
+		margin-bottom: 0;
+	}
+
 	.structure {
-		margin: 200px 0 120px;
+		margin: 200px 0 0;
+
+		&__intro {
+			margin-bottom: 0;
+		}
+
+		&__content-bg {
+			padding: 50px 0 0;
+		}
 	}
 
 	.footer {

diff --git a/app/scss/_global.scss b/app/scss/_global.scss
@@ -233,6 +233,7 @@ button {
 	@extend %overpass-semibold;
 	font-size: 38px;
 	line-height: 130%;
+
 }
 
 .section {
@@ -252,7 +253,7 @@ button {
 	}
 
 	&__item-title {
-		color: $very-dark-black-blue;
+		color: $very-dark-blue;
 		@extend %overpass-semibold;
 		font-size: 29px;
 		margin-bottom: 33px;
